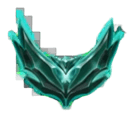
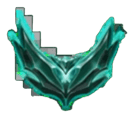
user_info.php image fix

diff --git a/judge/src/web/template/syzoj/userinfo.php b/judge/src/web/template/syzoj/userinfo.php
@@ -202,8 +202,9 @@
                 <tr>
                     <th>티어</th>
                     <td>
-                    <img src="<?php echo htmlspecialchars($calsed); ?>" alt="<?php echo htmlspecialchars($accall[$calledid]); ?>" style="width: 50px; vertical-align: middle; margin-right: 8px;">
-                    <?php echo htmlspecialchars($accall[$calledid]); ?>
+                        <img src="<?php echo htmlspecialchars($calsed); ?>" alt="<?php echo htmlspecialchars($accall[$calledid]); ?>" 
+                            style="width: 30px; height: 30px; vertical-align: middle; margin-right: 8px;">
+                        <?php echo htmlspecialchars($accall[$calledid]); ?>
                     </td>
 
                     <td>
@@ -213,8 +214,8 @@
                             if ($nextIndex < count($accall) && $nextIndex < count($acneed)) {
                                 $remain = $acneed[$nextIndex] - $AC;
                                 if ($remain < 0) $remain = 0;
-                                // 이미지 출력
-                                echo '<img src="' . htmlspecialchars($accall_img[$nextIndex]) . '" alt="' . htmlspecialchars($accall[$nextIndex]) . '" style="width:30px; vertical-align:middle; margin-right:5px;">';
+                                // 이미지 출력 (크기 30x30 고정)
+                                echo '<img src="' . htmlspecialchars($accall_img[$nextIndex]) . '" alt="' . htmlspecialchars($accall[$nextIndex]) . '" style="width:30px; height:30px; vertical-align:middle; margin-right:5px;">';
                                 echo htmlspecialchars($accall[$nextIndex]) . " ";
                                 echo "남은 문제: " . $remain . " 문제";
                             } else {
